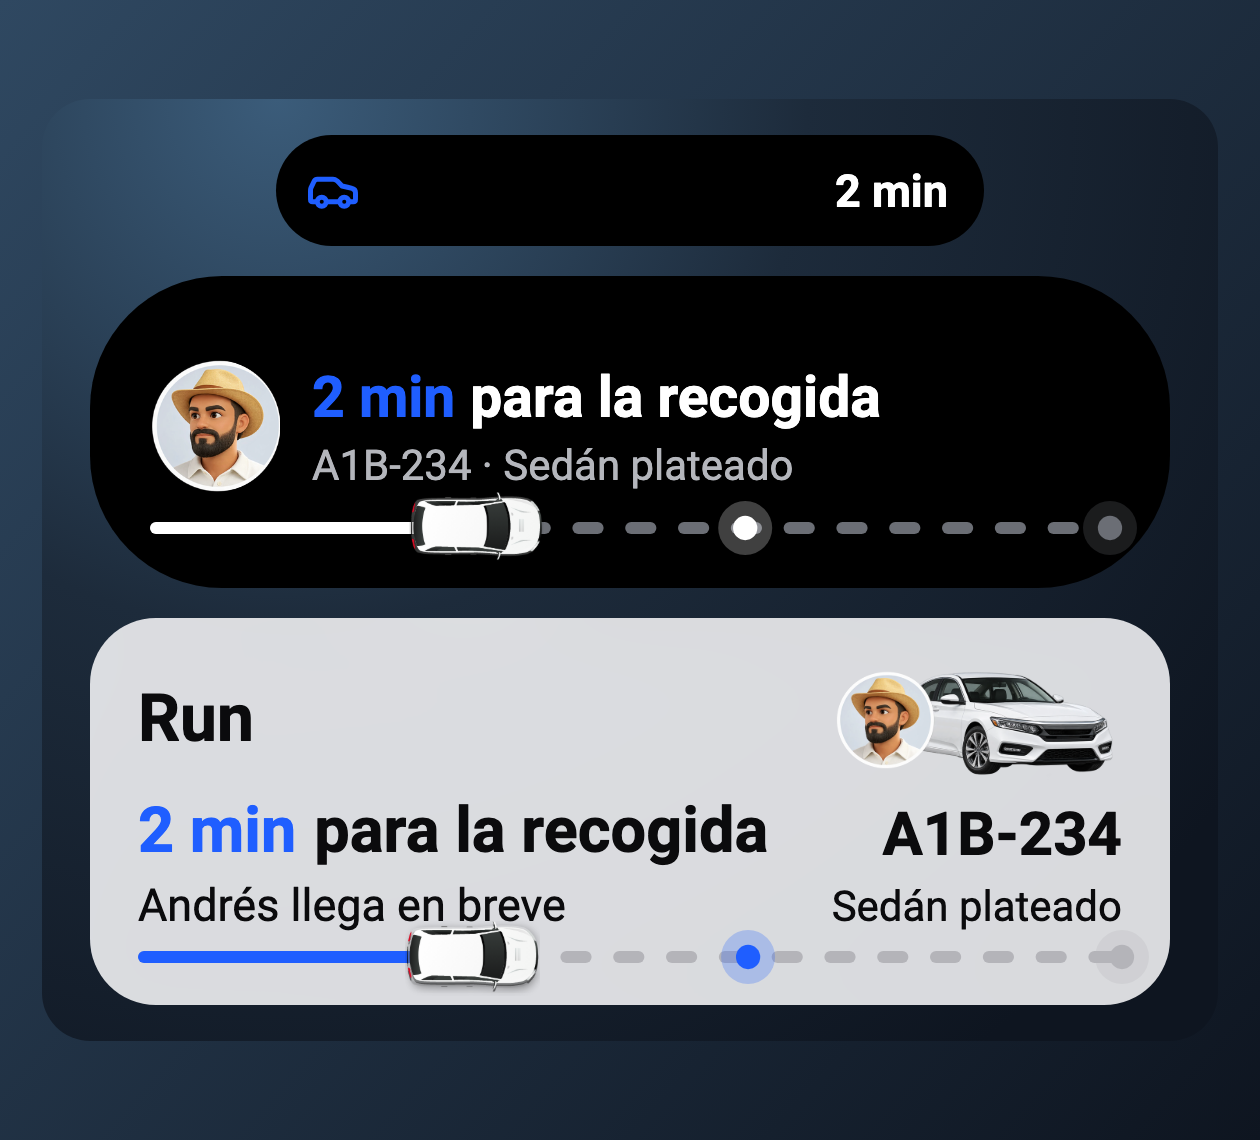
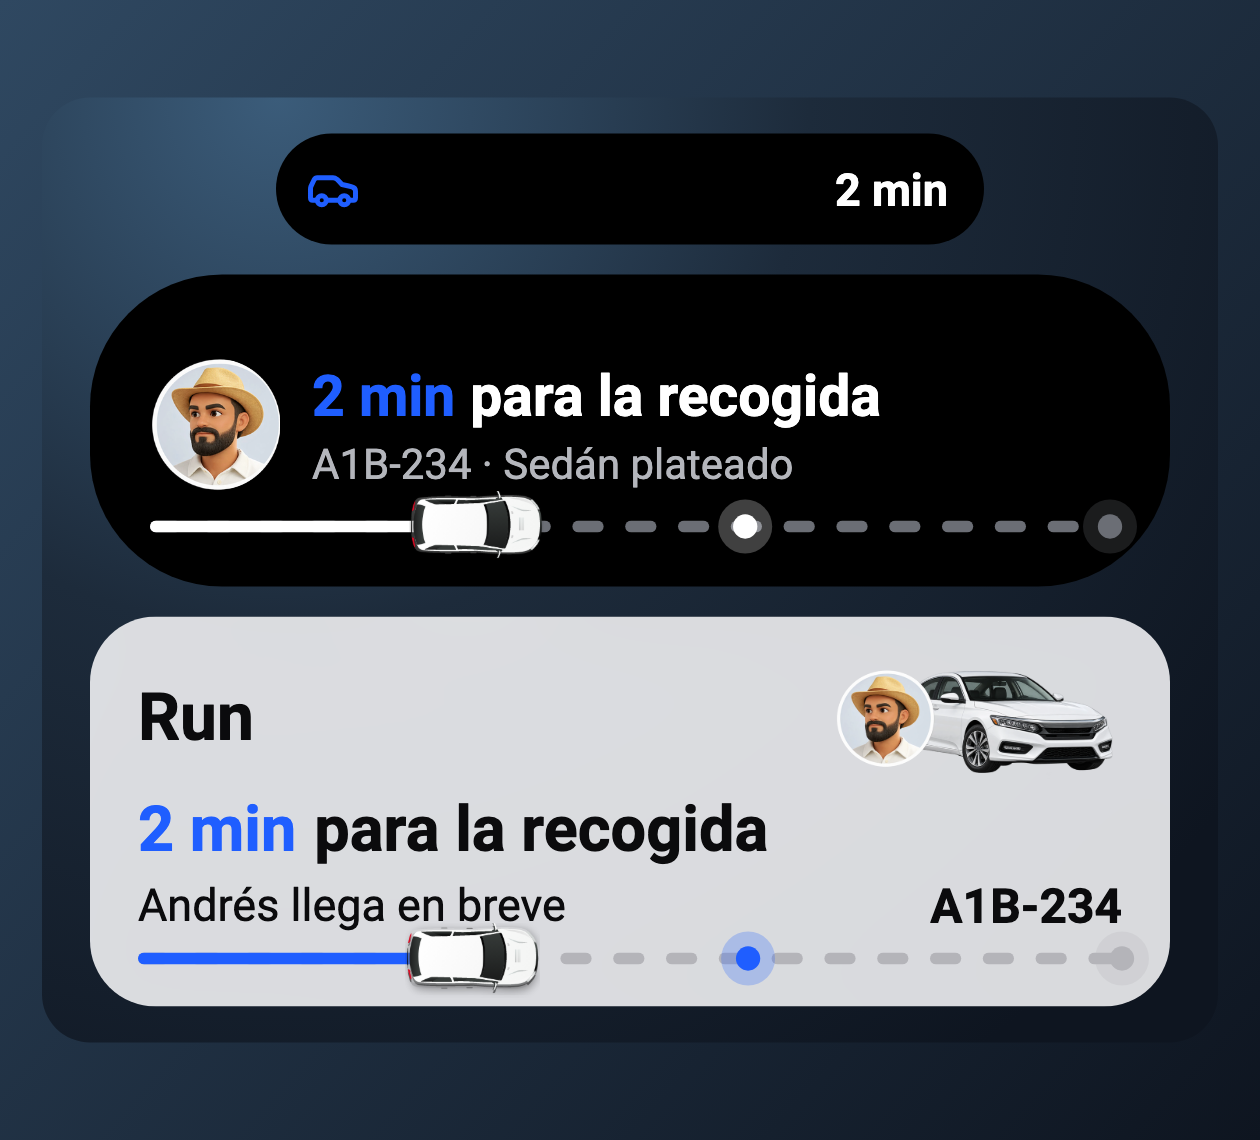
fix(android): la tarjeta pinta el fondo del tema (accent y light) y Recogida clara no corta el título
El tema background accent o light pintaba toda la tarjeta en iOS pero Android lo
ignoraba y dejaba texto blanco sobre el fondo claro del sistema (Recogida oscura).
Ahora la tarjeta de Android envuelve el diseño en una caja de ese color, salvo que
ya tenga una raíz de color. Recogida clara pone el título solo en su fila y la
placa junto al subtítulo. Prueba nueva en Kotlin (43 en total).

diff --git a/android/src/main/kotlin/com/vmichael1999/live_island/LiveSpec.kt b/android/src/main/kotlin/com/vmichael1999/live_island/LiveSpec.kt
@@ -177,8 +177,25 @@ data class LiveSpec(
         private fun cardOf(layout: JSONObject, android: JSONObject?, state: LiveState): CardSpec? {
             if (android?.optString("style") != "card") return null
             val lock = LiveJson.obj(LiveJson.obj(layout, "regions"), "lockScreen")?.takeIf { it.has("t") }
-            val expanded = LiveJson.obj(android, "card") ?: lock ?: return null
-            return CardSpec(LiveJson.obj(android, "cardCollapsed") ?: expanded, expanded, state)
+            val expanded = withBackground(layout, LiveJson.obj(android, "card") ?: lock ?: return null)
+            return CardSpec(LiveJson.obj(android, "cardCollapsed")?.let { withBackground(layout, it) } ?: expanded, expanded, state)
+        }
+
+        /**
+         * `theme.background` `accent` o `light` pinta toda la tarjeta (como la tarjeta de
+         * bloqueo de iOS); con `system` se deja el fondo de la notificación. Si el diseño
+         * ya tiene una caja de color como raíz no se vuelve a pintar.
+         */
+        private fun withBackground(layout: JSONObject, node: JSONObject): JSONObject {
+            val theme = LiveJson.obj(layout, "theme")
+            val fill = when (theme?.optString("background")) {
+                "accent" -> theme.optString("accent").ifEmpty { null }
+                "light" -> "#FAFAFC"
+                else -> null
+            } ?: return node
+            if (node.optString("t") == "box" && node.has("color")) return node
+            val padded = JSONObject().put("t", "padding").put("h", 16).put("v", 14).put("child", node)
+            return JSONObject().put("t", "box").put("color", fill).put("radius", 22).put("child", padded)
         }
 
         private val PROGRESS_TYPES = setOf("bar", "ring", "segments", "gauge", "path", "split")

diff --git a/lib/src/presets/designs.dart b/lib/src/presets/designs.dart
@@ -293,25 +293,19 @@ final class RidePickupPreset extends LivePreset {
       LiveText.format('{placa} • {vehiculo}', size: 15, color: subtle),
     ], gap: 3);
 
-    // Clara: «2 min para la recogida», subtítulo y, a la derecha, placa y auto.
-    final lightBody = LiveRow([
-      LiveColumn([
-        LiveRow([
-          _t('tiempo', size: 21, weight: 700, color: accent),
-          _t('titulo', size: 21, weight: 700, color: ink),
-        ], gap: 6),
-        _t('subtitulo', size: 15, color: subtle),
-      ], gap: 3),
-      const LiveSpacer(),
-      LiveColumn(
-        [
-          _t('placa', size: 20, weight: 700, color: ink),
-          _t('vehiculo', size: 14, color: subtle),
-        ],
-        align: LiveAlign.end,
-        gap: 3,
-      ),
-    ], align: LiveAlign.end);
+    // Clara: «2 min para la recogida» a todo el ancho y, debajo, el subtítulo con
+    // la placa a la derecha (así el título no compite por el ancho).
+    final lightBody = LiveColumn([
+      LiveRow([
+        _t('tiempo', size: 21, weight: 700, color: accent),
+        _t('titulo', size: 21, weight: 700, color: ink, lines: 1),
+      ], gap: 6),
+      LiveRow([
+        _t('subtitulo', size: 15, color: subtle, lines: 1),
+        const LiveSpacer(),
+        _t('placa', size: 16, weight: 700, color: ink),
+      ]),
+    ], gap: 3);
 
     final card = LiveColumn([
       header(),

diff --git a/android/src/test/kotlin/com/vmichael1999/live_island/LiveSpecTest.kt b/android/src/test/kotlin/com/vmichael1999/live_island/LiveSpecTest.kt
@@ -306,6 +306,19 @@ class LiveSpecTest {
     // --- utilidades -------------------------------------------------------------
 
     @Test
+    fun `la tarjeta pinta el fondo del tema accent y light, y no el system`() {
+        fun card(bg: String) = LiveSpec.from(
+            JSONObject("""{"v":1,"theme":{"accent":"#16181C","background":"$bg"},"regions":{"lockScreen":{"t":"text","text":"Hola"}},"android":{"style":"card"}}"""),
+            emptyMap(),
+        ).card!!.expanded
+        val accent = card("accent")
+        assertEquals("box", accent.getString("t"))
+        assertEquals("#16181C", accent.getString("color"))
+        assertEquals("box", card("light").getString("t"))
+        assertEquals("text", card("system").getString("t"))
+    }
+
+    @Test
     fun `LiveJson convierte numeros, fechas y mezcla estados`() {
         assertEquals("2", LiveJson.text(2.0))
         assertEquals("0.5", LiveJson.text(0.5))
